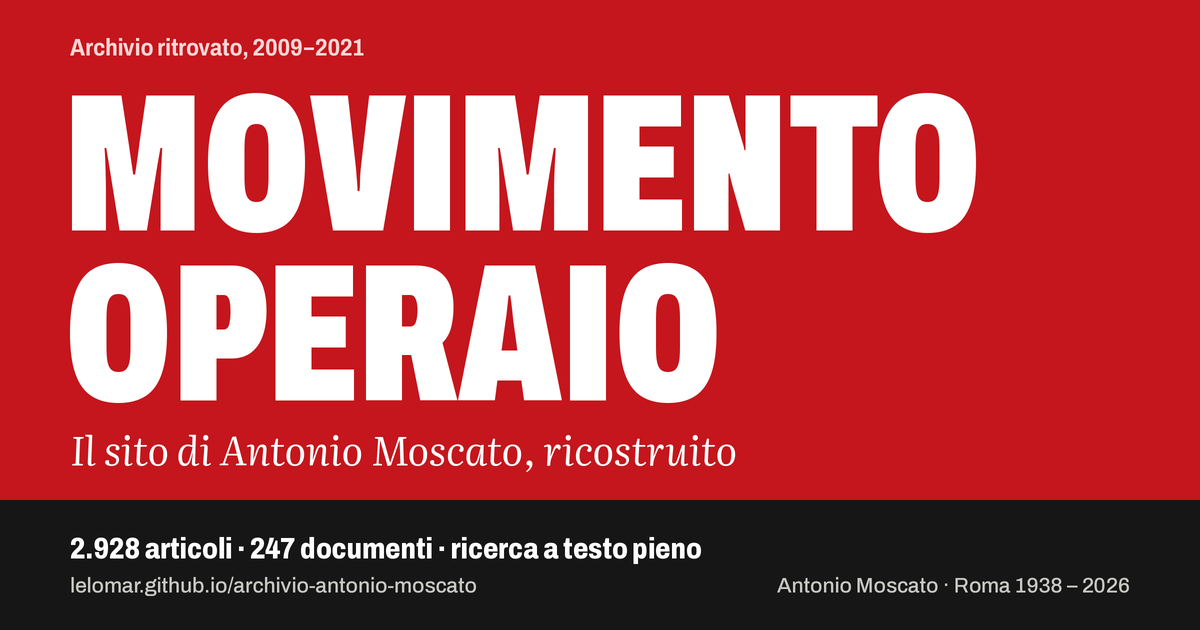
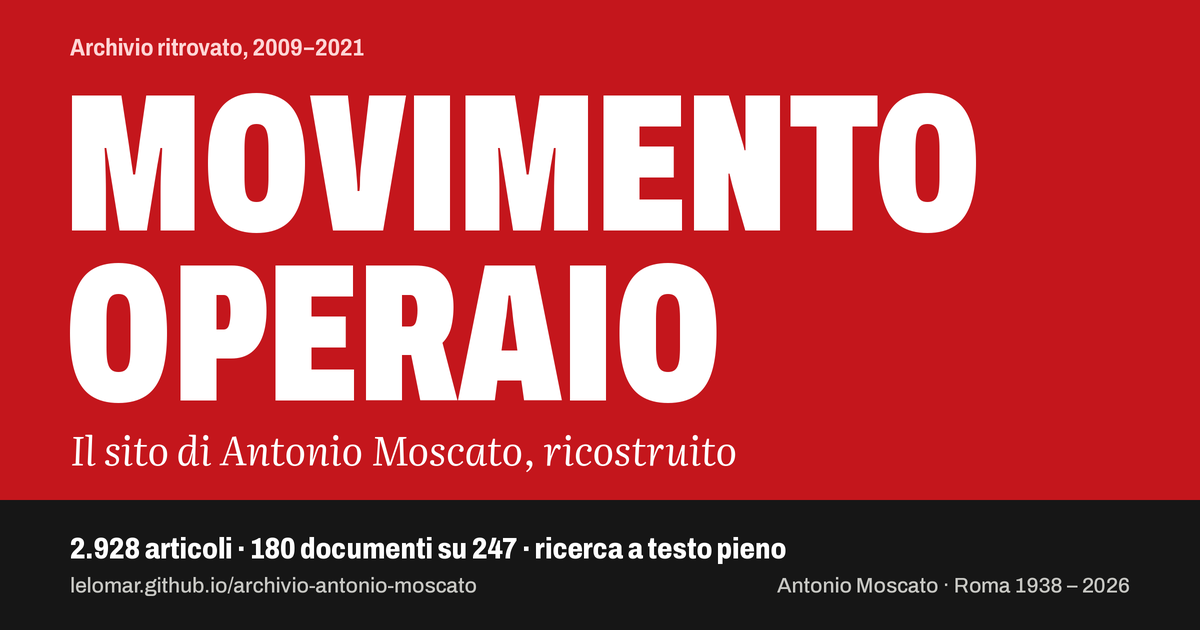
Immagine di condivisione: 180 documenti su 247

Changed region(s): [[0.37, 0.8444, 0.6475, 0.9048], [0.2158, 0.8444, 0.2467, 0.9048]]

diff --git a/sviluppo/og.py b/sviluppo/og.py
@@ -23,7 +23,7 @@ d.text((70*S,34*S),'Archivio ritrovato, 2009–2021',font=archivo(24,700,85),fil
 d.text((64*S,58*S),'MOVIMENTO',font=archivo(196),fill=WHITE)
 d.text((64*S,228*S),'OPERAIO',font=archivo(196),fill=WHITE)
 d.text((70*S,418*S),'Il sito di Antonio Moscato, ricostruito',font=literata(40),fill=WHITE)
-footer(d,'2.928 articoli · 247 documenti · ricerca a testo pieno')
+footer(d,'2.928 articoli · 180 documenti su 247 · ricerca a testo pieno')
 save(im,'og-archivio.png')
 im,d=base()
 d.text((70*S,34*S),'Un archivio salvato',font=archivo(24,700,85),fill=PINK)

diff --git a/CHANGELOG.md b/CHANGELOG.md
@@ -14,6 +14,7 @@ Le correzioni segnalate dai lettori e approvate vengono raccolte qui fino alla v
 - Nella pagina dei temi, i collegamenti per scaricare il vocabolario in CSV, JSON e SKOS, le parole chiave originali e le voci da verificare.
 
 ### Corretto
+- L'immagine di condivisione dell'archivio indicava «247 documenti»: ora dice «180 documenti su 247».
 - Il riquadro «Accadde oggi» della home mostrava solo la data: lo script che inserisce la data di consultazione nelle citazioni ne sovrascriveva il contenuto.
 
 ## [1.2.0] – 27 ottobre 2026
